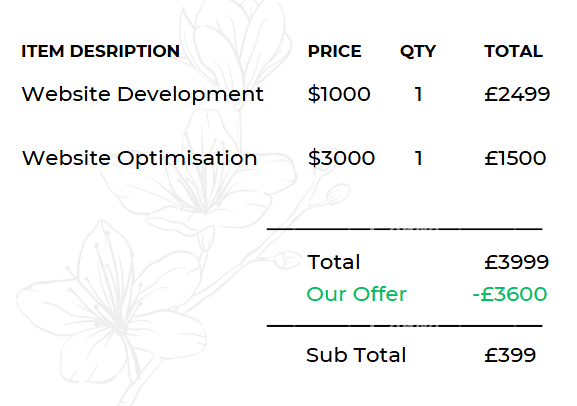
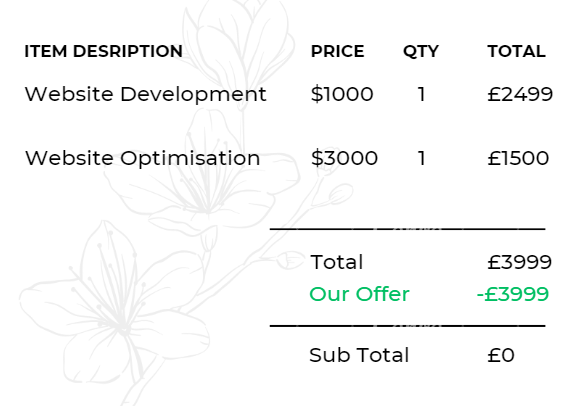
Changes pricing image

diff --git a/app/(landing)/landing-page/page.tsx b/app/(landing)/landing-page/page.tsx
@@ -68,7 +68,7 @@ export default function LandingPage() {
           animate={{ opacity: 1, y: 0 }}
           transition={{ duration: 0.8 }}
         >
-          Get A Professional Website from <span className="text-yellow-300">Just £399</span>
+          Get A Professional Website for <span className="text-yellow-300">Free</span>
           <br className="hidden md:block" /> And JumpStart Your Business
         </motion.h1>
         <motion.p
@@ -77,7 +77,7 @@ export default function LandingPage() {
           animate={{ opacity: 1 }}
           transition={{ delay: 0.5, duration: 0.8 }}
         >
-          Affordable, fast, and tailored to your business needs. Let’s build your dream website today!
+          Affordable, fast, and tailored to your business needs. Let’s build your dream website today—completely free!
         </motion.p>
         <QuoteDialog>
           <Button size="lg" className="bg-white text-blue-600 hover:bg-gray-100 text-lg md:text-xl py-4 md:py-6 px-8 md:px-10 rounded-full shadow-lg hover:shadow-xl transition-all transform hover:scale-105">
@@ -225,7 +225,7 @@ export default function LandingPage() {
                 animate={{ opacity: 1 }}
                 transition={{ delay: 1.2, duration: 0.8 }}
               >
-                That’s where we come in. We’ve helped thousands of business owners get a professional website—without breaking the bank. With our affordable solutions, you can have a stunning website for your business starting at just £399.
+                That’s where we come in. We’ve helped thousands of business owners get a professional website—without breaking the bank. With our free solutions, you can have a stunning website for your business at no cost.
               </motion.p>
               
               {/* Center the button */}
@@ -253,7 +253,7 @@ export default function LandingPage() {
             {[
               { title: 'Customer Satisfaction', value: '100%' },
               { title: 'Average Agency Cost', value: '£3,698' },
-              { title: 'Our Starting Price', value: '£399' },
+              { title: 'Our Starting Price', value: 'Free' },
             ].map((stat, index) => (
               <motion.div
                 key={stat.title}
@@ -326,7 +326,7 @@ export default function LandingPage() {
               <Button
                 className="bg-white text-blue-600 hover:bg-gray-100 text-sm md:text-lg lg:text-xl py-8 px-4 md:px-10 rounded-full shadow-lg hover:shadow-xl transition-all transform hover:scale-105 mt-8 whitespace-normal text-center"
               >
-                Apply to Get Your Website Built by Professionals — From Just £399!
+                Apply to Get Your Free Website Built by Professionals!
               </Button>
             </QuoteDialog>
           </motion.div>
@@ -426,7 +426,7 @@ export default function LandingPage() {
             <Button
               className="bg-blue-600 text-white hover:bg-blue-700 text-sm md:text-lg lg:text-xl py-8 px-4 md:px-10 rounded-full shadow-lg hover:shadow-xl transition-all transform hover:scale-105 mt-8 whitespace-normal text-center"
             >
-              Apply to Get Your Website Built by Professionals — From Just £399!
+              Apply to Get Your Free Website Built by Professionals!
             </Button>
           </QuoteDialog>
         </div>
@@ -560,7 +560,7 @@ export default function LandingPage() {
               Why We Do This
             </h2>
             <p className="text-gray-600 text-md md:text-lg mb-4">
-              Unlike many agencies, we charge a <strong>minimum of £399</strong> for professional, high-quality websites. Here’s why:
+              Unlike many agencies, we offer <strong>completely free websites</strong> for professional, high-quality websites. Here’s why:
             </p>
             <p className="text-gray-600 text-md md:text-lg mb-4">
               This is our way of ensuring that your investment leads to measurable results. Our goal is to build long-term relationships with businesses, so as your company grows, we can continue providing you with top-tier digital solutions.
@@ -589,7 +589,7 @@ export default function LandingPage() {
           <div className="md:w-1/2 space-y-6">
             <div className="bg-gray-50 p-6 rounded-lg shadow-lg">
               <h3 className="text-xl font-semibold text-gray-800">Sam S.</h3>
-              <p className="text-gray-600 mt-2">&quot;I was waiting for the catch. I still can&apos;t believe I got an incredible website for such a good price.&quot;</p>
+              <p className="text-gray-600 mt-2">&quot;I was waiting for the catch. I still can&apos;t believe I got an incredible website for free!&quot;</p>
               <p className="text-yellow-500 mt-2">★★★★★</p>
             </div>
 

diff --git a/app/(landing)/components/QuoteDialog.tsx b/app/(landing)/components/QuoteDialog.tsx
@@ -23,13 +23,6 @@ export default function QuoteDialog({ children }: { children: React.ReactNode })
     hosting: '',
   });
 
-/*************  ✨ Codeium Command ⭐  *************/
-  /**
-   * Handles input change event in the quote form by updating the form data
-   * and clearing any existing error messages.
-   * @param e React.ChangeEvent<HTMLInputElement | HTMLTextAreaElement>
-   */
-/******  cc323aed-35b6-4639-ae21-2df795052292  *******/
   const handleChange = (e: React.ChangeEvent<HTMLInputElement | HTMLTextAreaElement>): void => {
     setFormData({ ...formData, [e.target.name]: e.target.value });
     setErrors(null); // Clear error when user types
